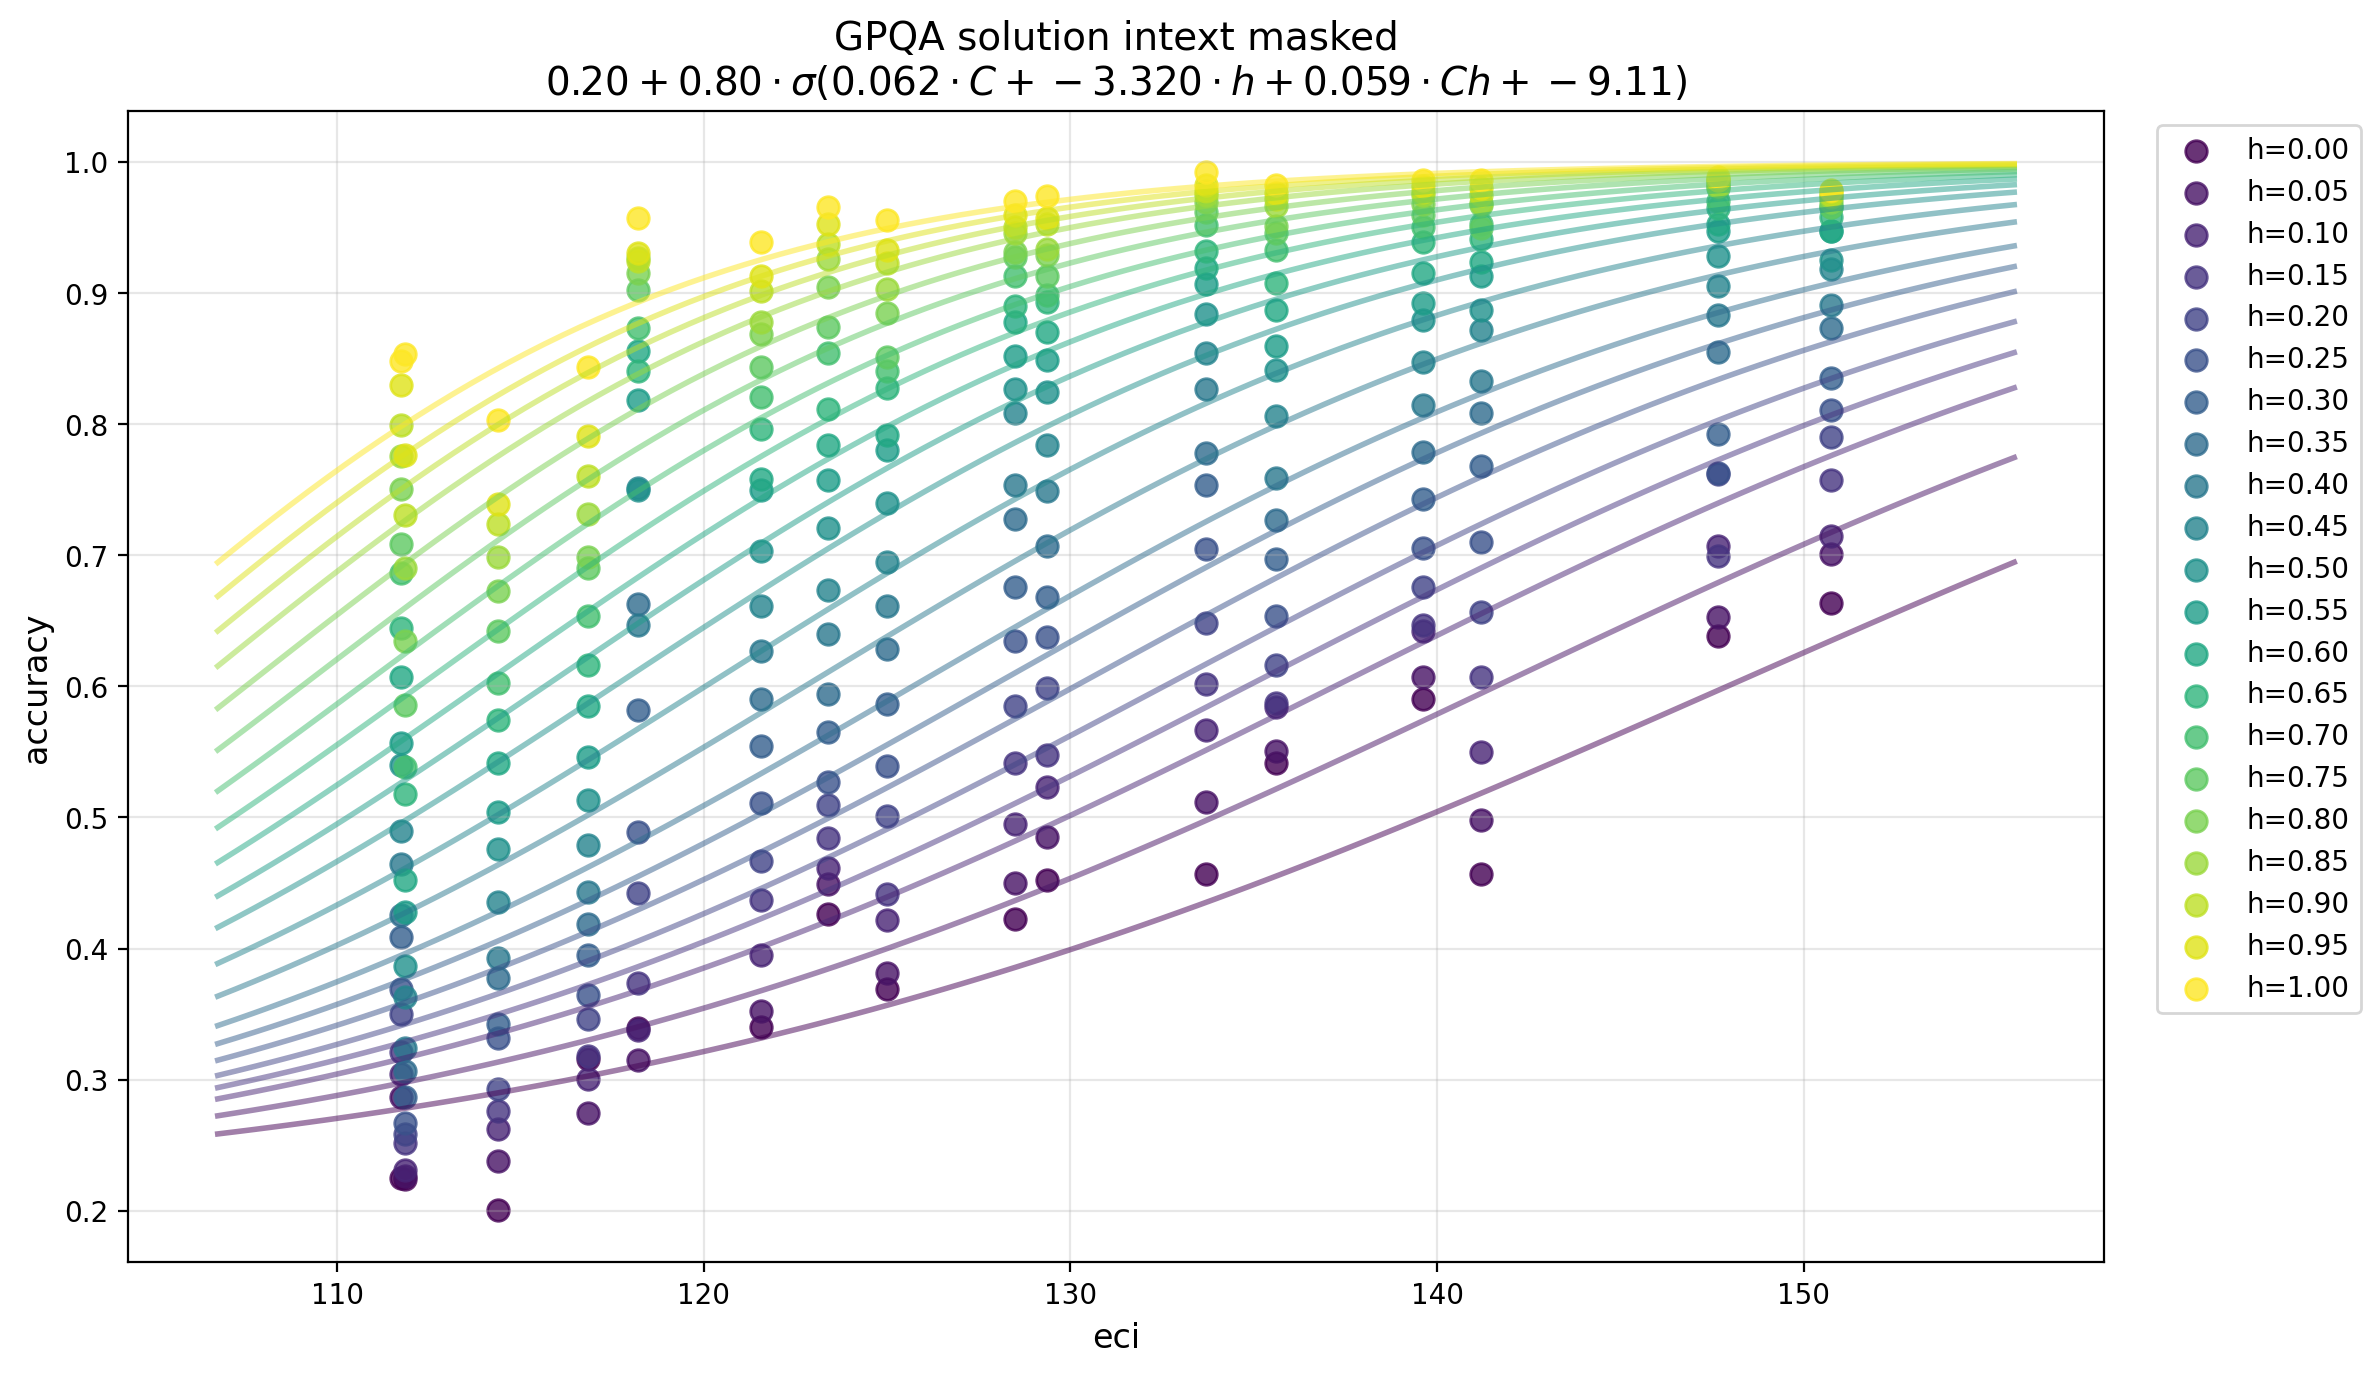
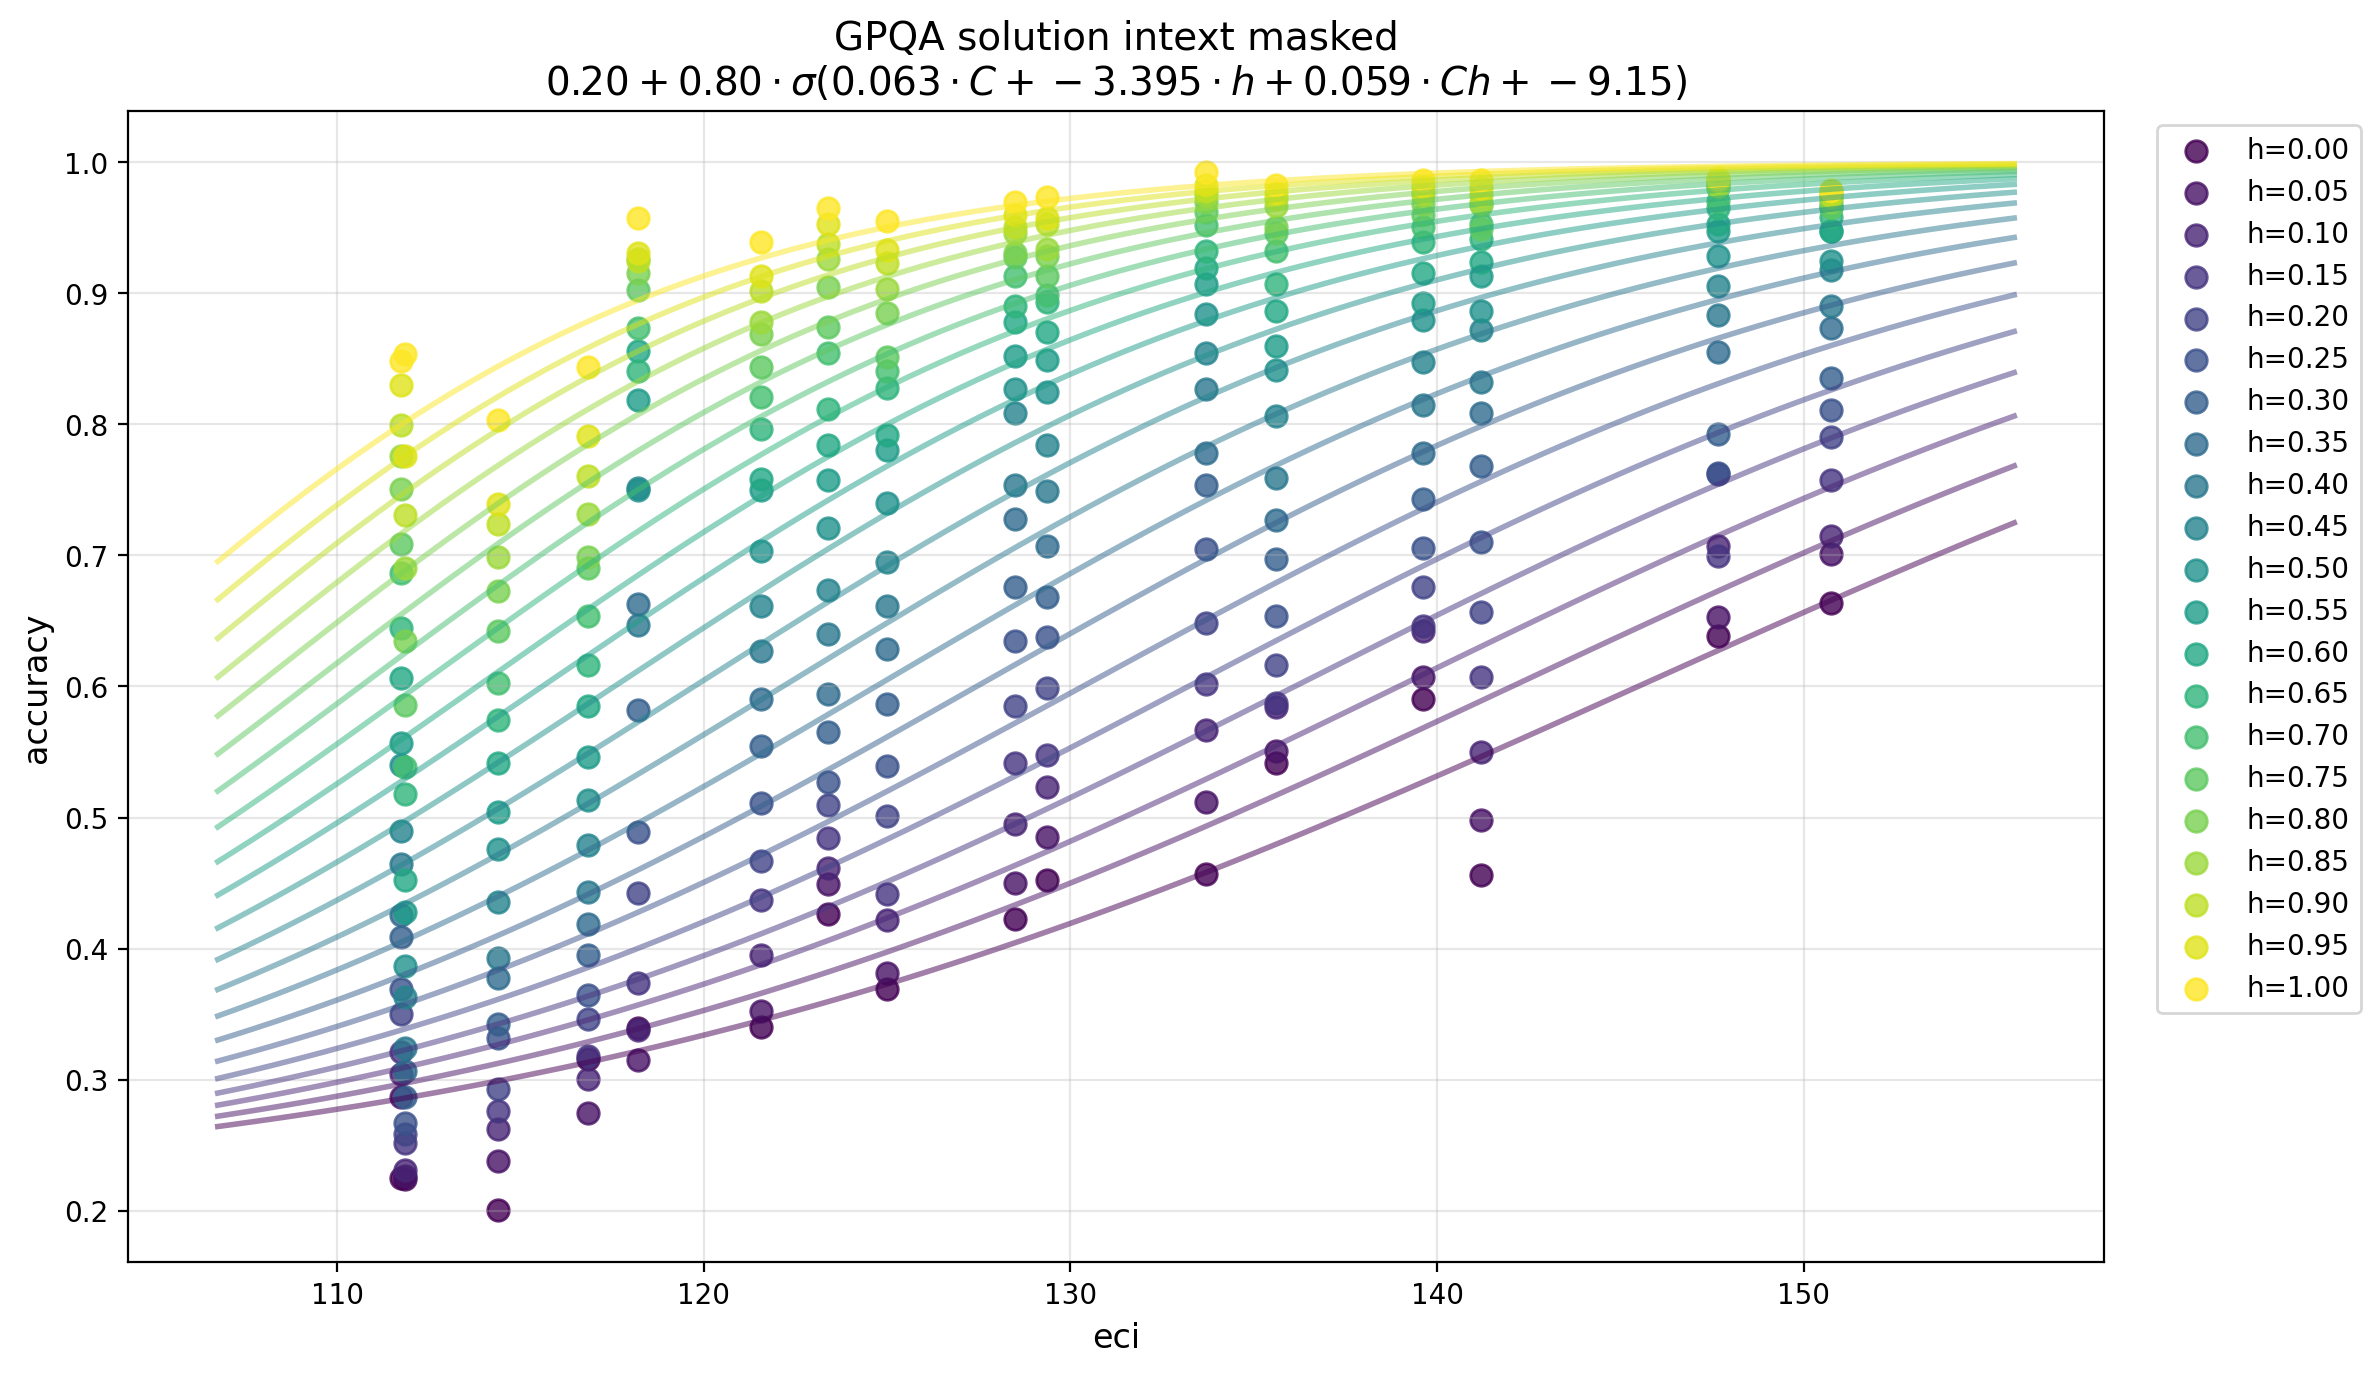
more hint transforms

Changed region(s): [[0.0933, 0.1223, 0.8706, 0.8253]]

diff --git a/suze_experiments/20260202/experiments.py b/suze_experiments/20260202/experiments.py
@@ -136,9 +136,6 @@ def joint_scaling_learned_hint_fixed_endpoints() -> None:
     run_name = "joint_scaling_learned_hint_fixed_endpoints" + "_feb_5"
     run_dir = make_run_dir(run_name=run_name)
 
-    # Custom knots for the piecewise-linear mapping (must start at 0 and end at 1 for fixed-endpoints).
-    hint_knots = [0.0, 0.05, 0.10, 0.20, 0.35, 0.50, 0.70, 0.85, 1.0]
-
     run_joint_scaling_plots(
         base_folder=PROJECT_ROOT / "christine_experiments/20251113/results",
         eci_file=PROJECT_ROOT / "christine_experiments/20260129_fitting/eci_model_capabilities.csv",
@@ -170,7 +167,7 @@ def joint_scaling_learned_hint_fixed_endpoints() -> None:
         include_cross=True,
         lower_asymptote=0.2,
         hint_transform="learned_piecewise_linear_fixed_endpoints",
-        hint_knots=hint_knots,
+        hint_knots=[round(i / 20.0, 2) for i in range(21)],
         output_dir=run_dir,
     )
 
@@ -265,12 +262,58 @@ def joint_scaling_learned_hint_fixed_endpoints_train_on_some() -> None:
     )
 
 
+def joint_scaling_learned_hint_fixed_endpoints_sequential_solution() -> None:
+    # python experiments.py -e joint_scaling_learned_hint_fixed_endpoints_sequential_solution
+    _ensure_project_root_on_path()
+
+    # User-defined run name: edit here per experiment.
+    run_name = "joint_scaling_learned_hint_fixed_endpoints_sequential_solution" + "_feb_5"
+    run_dir = make_run_dir(run_name=run_name)
+
+    run_joint_scaling_plots(
+        base_folder=PROJECT_ROOT / "christine_experiments/20251113/results",
+        eci_file=PROJECT_ROOT / "christine_experiments/20260129_fitting/eci_model_capabilities.csv",
+        eval_name="gpqa",
+        solver="solution_intext_sequential",
+        condition="0shot",
+        label="GPQA solution intext sequential",
+        all_models=[
+            "Qwen2.5-1.5B-Instruct",
+            "Qwen2.5-3B-Instruct",
+            "Qwen2.5-7B-Instruct",
+            "Qwen2.5-14B-Instruct",
+            "Qwen2.5-32B-Instruct",
+            "Qwen3-0.6B",
+            "Qwen3-1.7B",
+            "Qwen3-4B",
+            "Qwen3-8B",
+            "Qwen3-14B",
+            "Qwen3-32B",
+            "Llama-3.1-8B-Instruct",
+            "Llama-3.1-70B-Instruct",
+            "gemma-3-4b-it",
+            "gemma-3-12b-it",
+            "gemma-3-27b-it",
+        ],
+        num_holdout_models=0,
+        hint_fractions=[round(i / 20.0, 2) for i in range(21)],
+        eval_hints_for_sweep=[0.0, 0.2, 0.4, 0.6, 0.8, 1.0],
+        include_cross=True,
+        lower_asymptote=0.2,
+        hint_transform="learned_piecewise_linear_fixed_endpoints",
+        hint_knots=[round(i / 20.0, 2) for i in range(21)],
+        output_dir=run_dir,
+    )
+
+
+
 EXPERIMENTS = {
     "joint_scaling_gpqa_train_on_all": joint_scaling_gpqa_train_on_all,
     "joint_scaling_gpqa_train_on_some": joint_scaling_gpqa_train_on_some,
     "joint_scaling_learned_hint_fixed_endpoints": joint_scaling_learned_hint_fixed_endpoints,
     "joint_scaling_learned_hint_free_endpoints": joint_scaling_learned_hint_free_endpoints,
-    "joint_scaling_learned_hint_fixed_endpoints_train_on_some": joint_scaling_learned_hint_fixed_endpoints_train_on_some
+    "joint_scaling_learned_hint_fixed_endpoints_train_on_some": joint_scaling_learned_hint_fixed_endpoints_train_on_some,
+    "joint_scaling_learned_hint_fixed_endpoints_sequential_solution": joint_scaling_learned_hint_fixed_endpoints_sequential_solution,
 }
 
 
